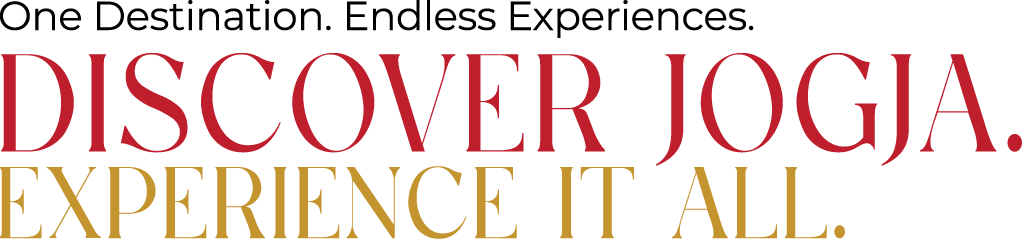
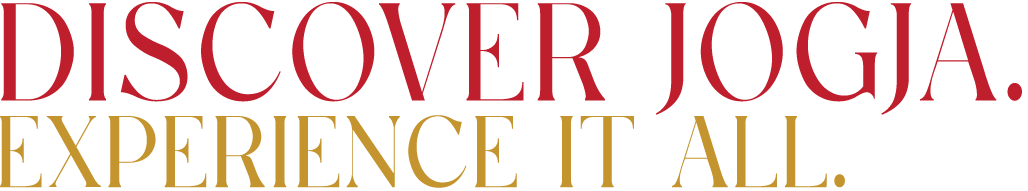
Update hero slider with fade transition, fix nav buttons, update menu styles and labels

diff --git a/src/components/home/Hero.jsx b/src/components/home/Hero.jsx
@@ -3,7 +3,9 @@ import { Link } from "react-router-dom";
 import { useTranslation } from "@/lib/i18n";
 
 import { Swiper, SwiperSlide } from "swiper/react";
-import { Autoplay } from "swiper/modules";
+import { Autoplay, Navigation, EffectFade } from "swiper/modules";
+import "swiper/css/effect-fade";
+import { ChevronLeft, ChevronRight } from "lucide-react";
 
 const SLIDES = [
   "https://ik.imagekit.io/ibrproject/tamansari-w2000.jpg",
@@ -40,8 +42,11 @@ export default function Hero() {
       <div className="relative">
         <div className="relative aspect-[4/3] md:aspect-[21/9] max-h-[calc(100vh-220px)] min-h-[320px] w-full overflow-hidden">
           <Swiper
-            modules={[Autoplay]}
+            modules={[Autoplay, Navigation, EffectFade]}
+            effect="fade"
+            fadeEffect={{ crossFade: true }}
             autoplay={{ delay: 5000, disableOnInteraction: false, pauseOnMouseEnter: true }}
+            navigation={{ prevEl: '.hero-prev', nextEl: '.hero-next' }}
             onSlideChange={(swiper) => setIndex(swiper.realIndex)}
             onSwiper={setSwiperInstance}
             loop={true}
@@ -59,7 +64,6 @@ export default function Hero() {
             ))}
           </Swiper>
 
-          {/* Bullet indicators — bottom left */}
           <div className="absolute bottom-6 left-6 z-10 flex gap-2">
             {SLIDES.map((_, i) => (
               <button
@@ -78,18 +82,36 @@ export default function Hero() {
               />
             ))}
           </div>
+
+          {/* Navigation Arrows */}
+          <button 
+            type="button"
+            onClick={() => swiperInstance?.slidePrev()}
+            className="hero-prev absolute left-4 top-1/2 z-10 -translate-y-1/2 flex h-10 w-10 items-center justify-center rounded-full bg-black/20 text-white backdrop-blur-sm transition-colors hover:bg-black/40 md:left-8"
+            aria-label="Previous slide"
+          >
+            <ChevronLeft className="h-6 w-6" />
+          </button>
+          <button 
+            type="button"
+            onClick={() => swiperInstance?.slideNext()}
+            className="hero-next absolute right-4 top-1/2 z-10 -translate-y-1/2 flex h-10 w-10 items-center justify-center rounded-full bg-black/20 text-white backdrop-blur-sm transition-colors hover:bg-black/40 md:right-8"
+            aria-label="Next slide"
+          >
+            <ChevronRight className="h-6 w-6" />
+          </button>
         </div>
       </div>
 
       {/* Menu row — below the slider */}
-      <div className="py-4" style={{ backgroundColor: "#FFFFFF" }}>
+      <div className="py-4 md:pt-8" style={{ backgroundColor: "#FFFFFF" }}>
         <div className="content-wrap">
           <div className="flex flex-col md:flex-row md:flex-wrap items-start md:items-center justify-start gap-x-10 gap-y-4 md:gap-y-2">
             {PILLS.map((p) => (
               <Link
                 key={p.label}
                 to={p.to}
-                className="focus-ring block w-full md:w-auto text-[17px] font-normal uppercase tracking-wide transition-opacity hover:opacity-70"
+                className="focus-ring block w-full md:w-auto text-[15px] md:text-[17px] font-normal uppercase tracking-wide transition-opacity hover:opacity-70"
                 style={{ color: "var(--text-primary)" }}
               >
                 {p.label}
@@ -101,13 +123,18 @@ export default function Hero() {
 
       {/* Heading / subheading / CTA — below the slider, left aligned */}
       <div className="content-wrap mt-12 text-center md:text-left">
+
+        <p className="text-[17px] md:text-[22px] leading-[1.2] pt-2 max-w-[1090px] mx-auto md:mx-0 text-left md:text-left mb-2" style={{ color: "#000000" }}>
+          One Destination. Endless Experiences.
+        </p>
+
         <img
           src="/discover-jogja-artwork_no_tagline_3.png"
           alt="Discover Your Yogyakarta"
-          className="w-full max-w-full md:max-w-[570px] h-auto mb-0 md:mx-0"
+          className="w-full max-w-full md:max-w-[485px] h-auto mb-0 md:mx-0"
         />
 
-        <p className="text-[19px] md:text-[22px] leading-[1.2] pt-2 max-w-[1090px] mx-auto md:mx-0 text-left md:text-left mb-6" style={{ color: "#000000" }}>
+        <p className="text-[18px] md:text-[22px] leading-[1.2] pt-2 max-w-[1090px] mx-auto md:mx-0 text-left md:text-left mb-6" style={{ color: "#000000" }}>
           Your trusted guide to Yogyakarta's destinations, culture, culinary experiences,
           events, accommodations, transportation, and local lifestyle.
         </p>

diff --git a/src/lib/navConfig.js b/src/lib/navConfig.js
@@ -51,7 +51,7 @@ export const NAV_GROUPS = [
     ],
   },
   {
-    label_en: "Destinations", label_id: "Destinasi",
+    label_en: "Explore", label_id: "Eksplorasi",
     to: "/destinations",
     items: [
       { label_en: "Yogyakarta City", label_id: "Kota Yogyakarta", to: "/destinations/yogyakarta-city" },
@@ -59,7 +59,7 @@ export const NAV_GROUPS = [
       { label_en: "Bantul", label_id: "Bantul", to: "/destinations/bantul" },
       { label_en: "Kulon Progo", label_id: "Kulon Progo", to: "/destinations/kulon-progo" },
       { label_en: "Gunungkidul", label_id: "Gunungkidul", to: "/destinations/gunungkidul" },
-      { label_en: "Villages & Hidden Gems", label_id: "Desa & Permata Tersembunyi", to: "/destinations/villages-hidden-gems" },
+      { label_en: "Outer Yogyakarta", label_id: "Yogyakarta Luar", to: "/destinations/villages-hidden-gems" },
     ],
   },
   {

diff --git a/src/index.css b/src/index.css
@@ -214,6 +214,23 @@
   .prose-detail a:hover {
     opacity: 0.8;
   }
+  /* Inline images within editorial content */
+  .prose-detail figure.content-image {
+    margin: 2rem 0;
+  }
+  .prose-detail figure.content-image img {
+    width: 100%;
+    height: auto;
+    border-radius: 12px;
+    object-fit: cover;
+  }
+  .prose-detail figcaption {
+    margin-top: 0.75rem;
+    font-size: 0.875rem;
+    color: var(--text-tertiary);
+    font-style: italic;
+    text-align: center;
+  }
   @media (min-width: 768px) {
     .prose-detail h2 { font-size: 1.625rem; }   /* 26px */
     .prose-detail h3 { font-size: 1.25rem; }     /* 20px */

diff --git a/src/lib/regencies.js b/src/lib/regencies.js
@@ -5,7 +5,7 @@ export const REGENCIES = [
   { value: "bantul", label_id: "Bantul", label_en: "Bantul" },
   { value: "kulon-progo", label_id: "Kulon Progo", label_en: "Kulon Progo" },
   { value: "gunungkidul", label_id: "Gunungkidul", label_en: "Gunungkidul" },
-  { value: "villages-hidden-gems", label_id: "Desa & Permata Tersembunyi", label_en: "Villages & Hidden Gems" },
+  { value: "villages-hidden-gems", label_id: "Yogyakarta Luar", label_en: "Outer Yogyakarta" },
 ];
 
 const MAP = Object.fromEntries(REGENCIES.map((r) => [r.value, r]));
